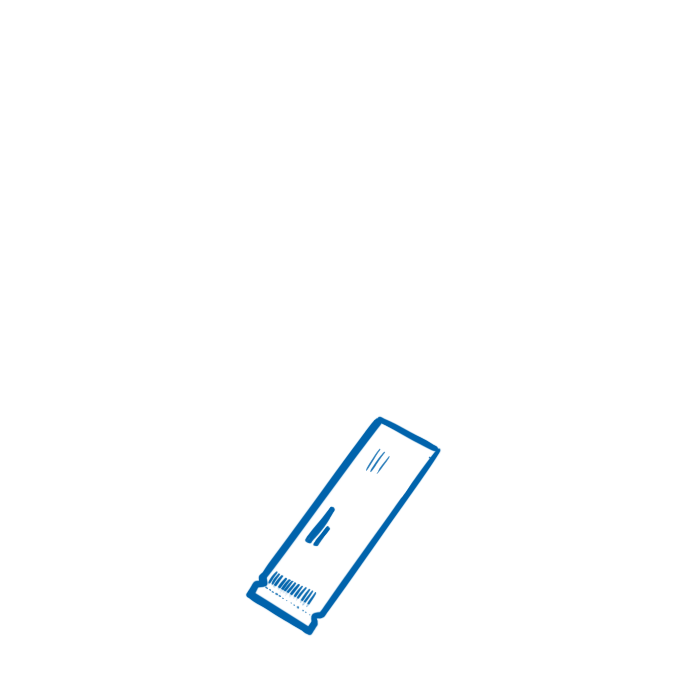
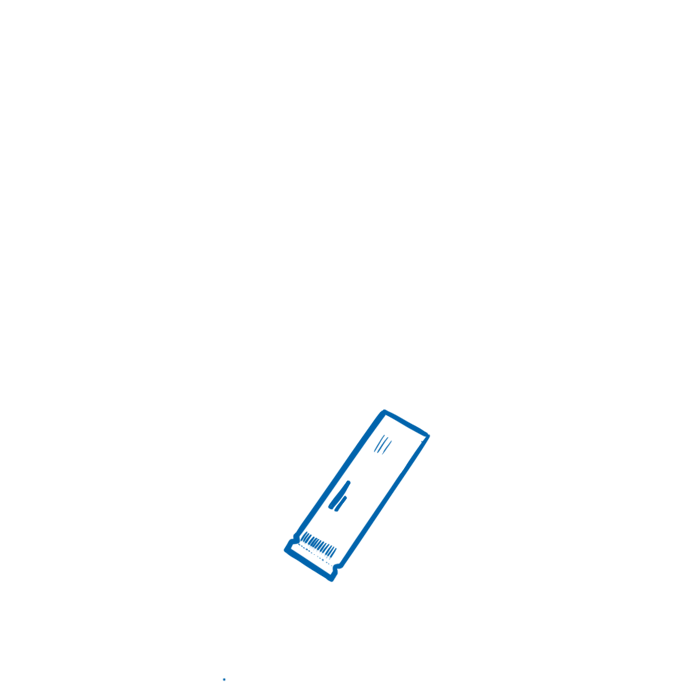
Немного поменял анимации на главной

Changed region(s): [[0.33, 0.57, 0.63, 0.93]]

diff --git a/css/main.css b/css/main.css
@@ -588,17 +588,17 @@
 @keyframes shake-drill {
     0%,
     25% {
-        transform: translateX(-1%);
+        transform: translateX(-0.5%);
     }
     50%,
     100% {
-        transform: translateX(1%);
+        transform: translateX(0.5%);
     }
 }
 
 .animated-icon-container--drill img:nth-child(2) {
     animation-name: shake-drill;
-    animation-duration: 0.06s;
+    animation-duration: 0.09s;
     animation-timing-function: ease-in-out;
     animation-iteration-count: infinite;
     animation-play-state: paused;
@@ -635,21 +635,20 @@
 @keyframes ticket-slide {
     0% {
         opacity: 1;
-        transform: translate(0, 0);
+        transform: translate(12%, -18%);
     }
 
-    20% {
+    80% {
         opacity: 1;
-        transform: translate(0, 0);
     }
 
     100% {
         opacity: 0;
-        transform: translate(-15%, 15%);
+        transform: translate(0, 0);
     }
 }
 
-.competencies-nav__item:hover .animated-icon-container--ticket img:nth-child(2) {
+.competencies-nav__item:hover .animated-icon-container--ticket img:nth-child(3) {
     animation-name: ticket-slide;
     animation-duration: 2s;
     animation-timing-function: ease-in-out;

diff --git a/index.html b/index.html
@@ -471,8 +471,10 @@
                                         <div class="competencies-nav__item">
                                             <div class="animated-icon-container animated-icon-container--ticket">
 
-                                                <img src="img/animated-icons/printer/printer.png" alt="">
+                                                <img src="img/animated-icons/printer/monitor.png" alt="">
+                                                <img src="img/animated-icons/printer/printer-bottom.png" alt="">
                                                 <img src="img/animated-icons/printer/ticket.png" alt="">
+                                                <img src="img/animated-icons/printer/printer-top.png" alt="">
                                             </div>
                                             <div class="cnt-item">
                                                 <p class="desc-item">Многолетний опыт разработки ПО билетно-пропускных систем и работ по интеграции</p>
